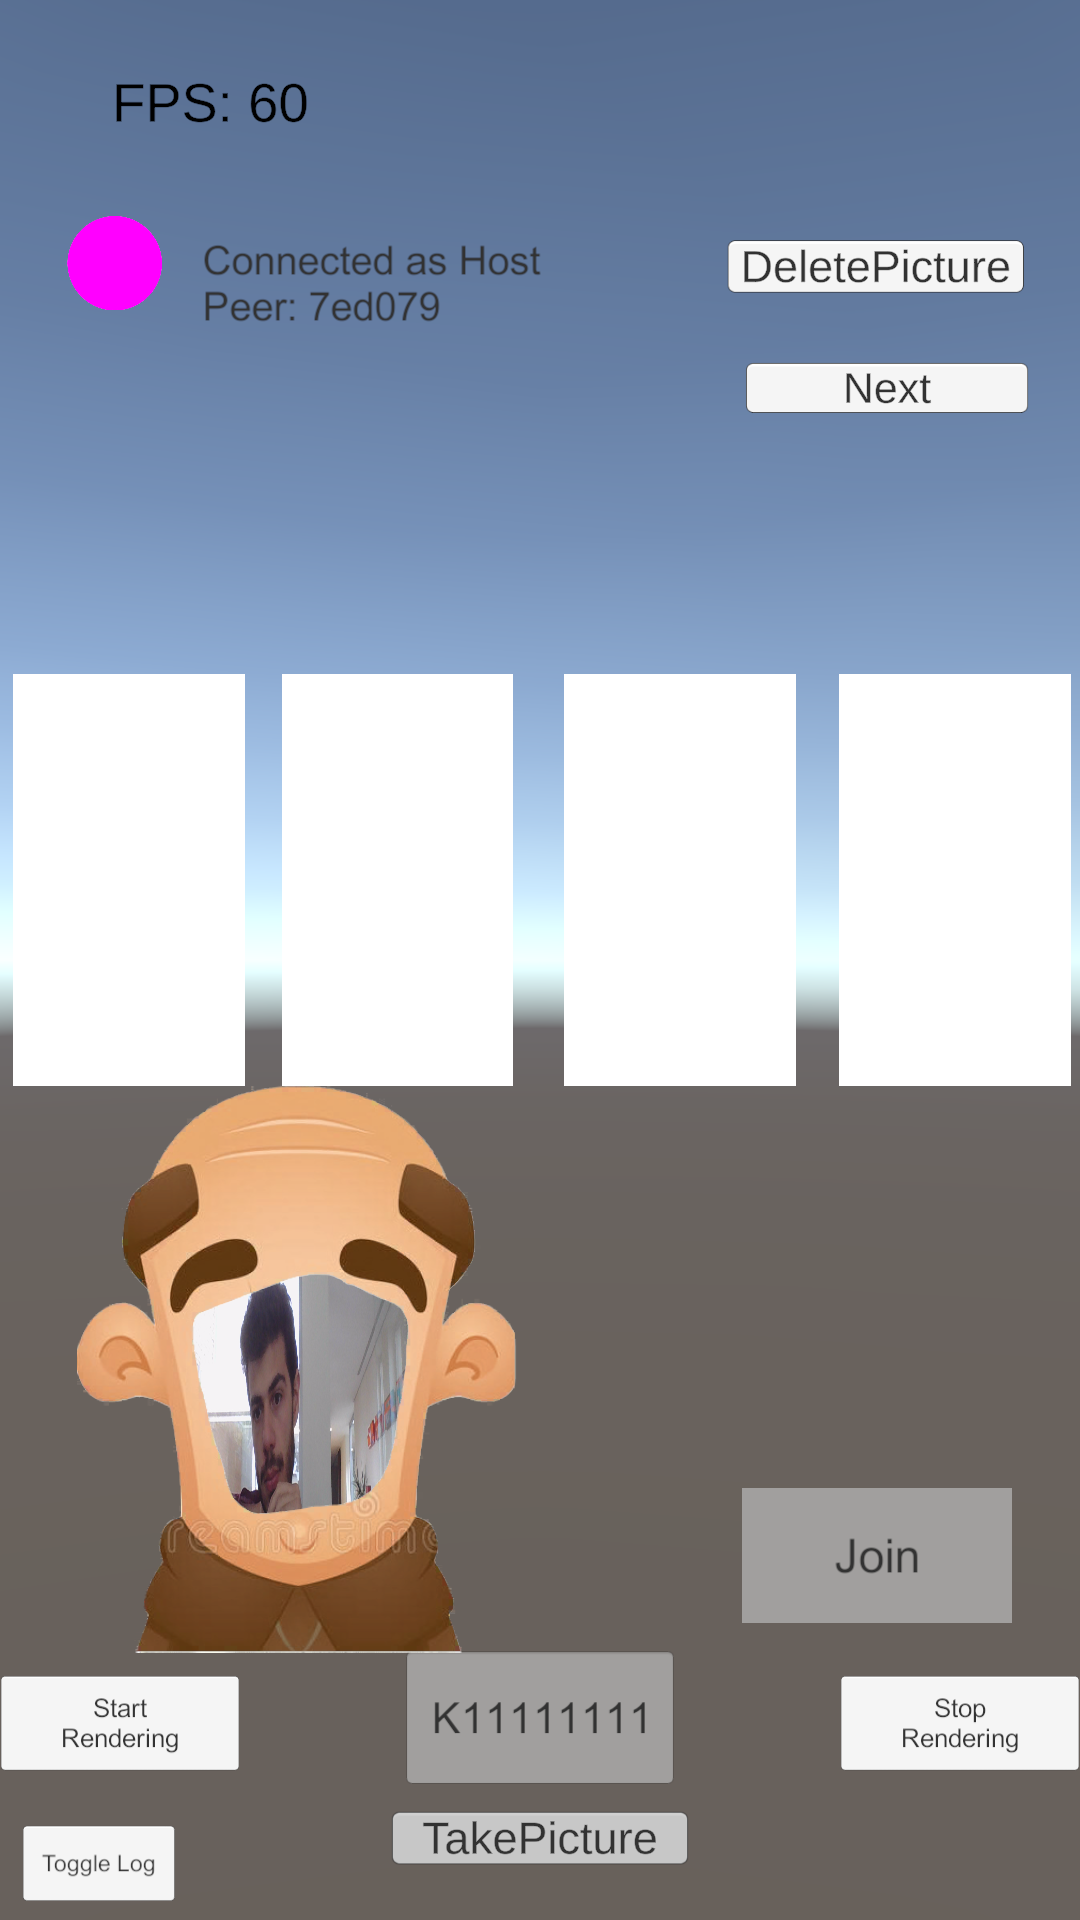
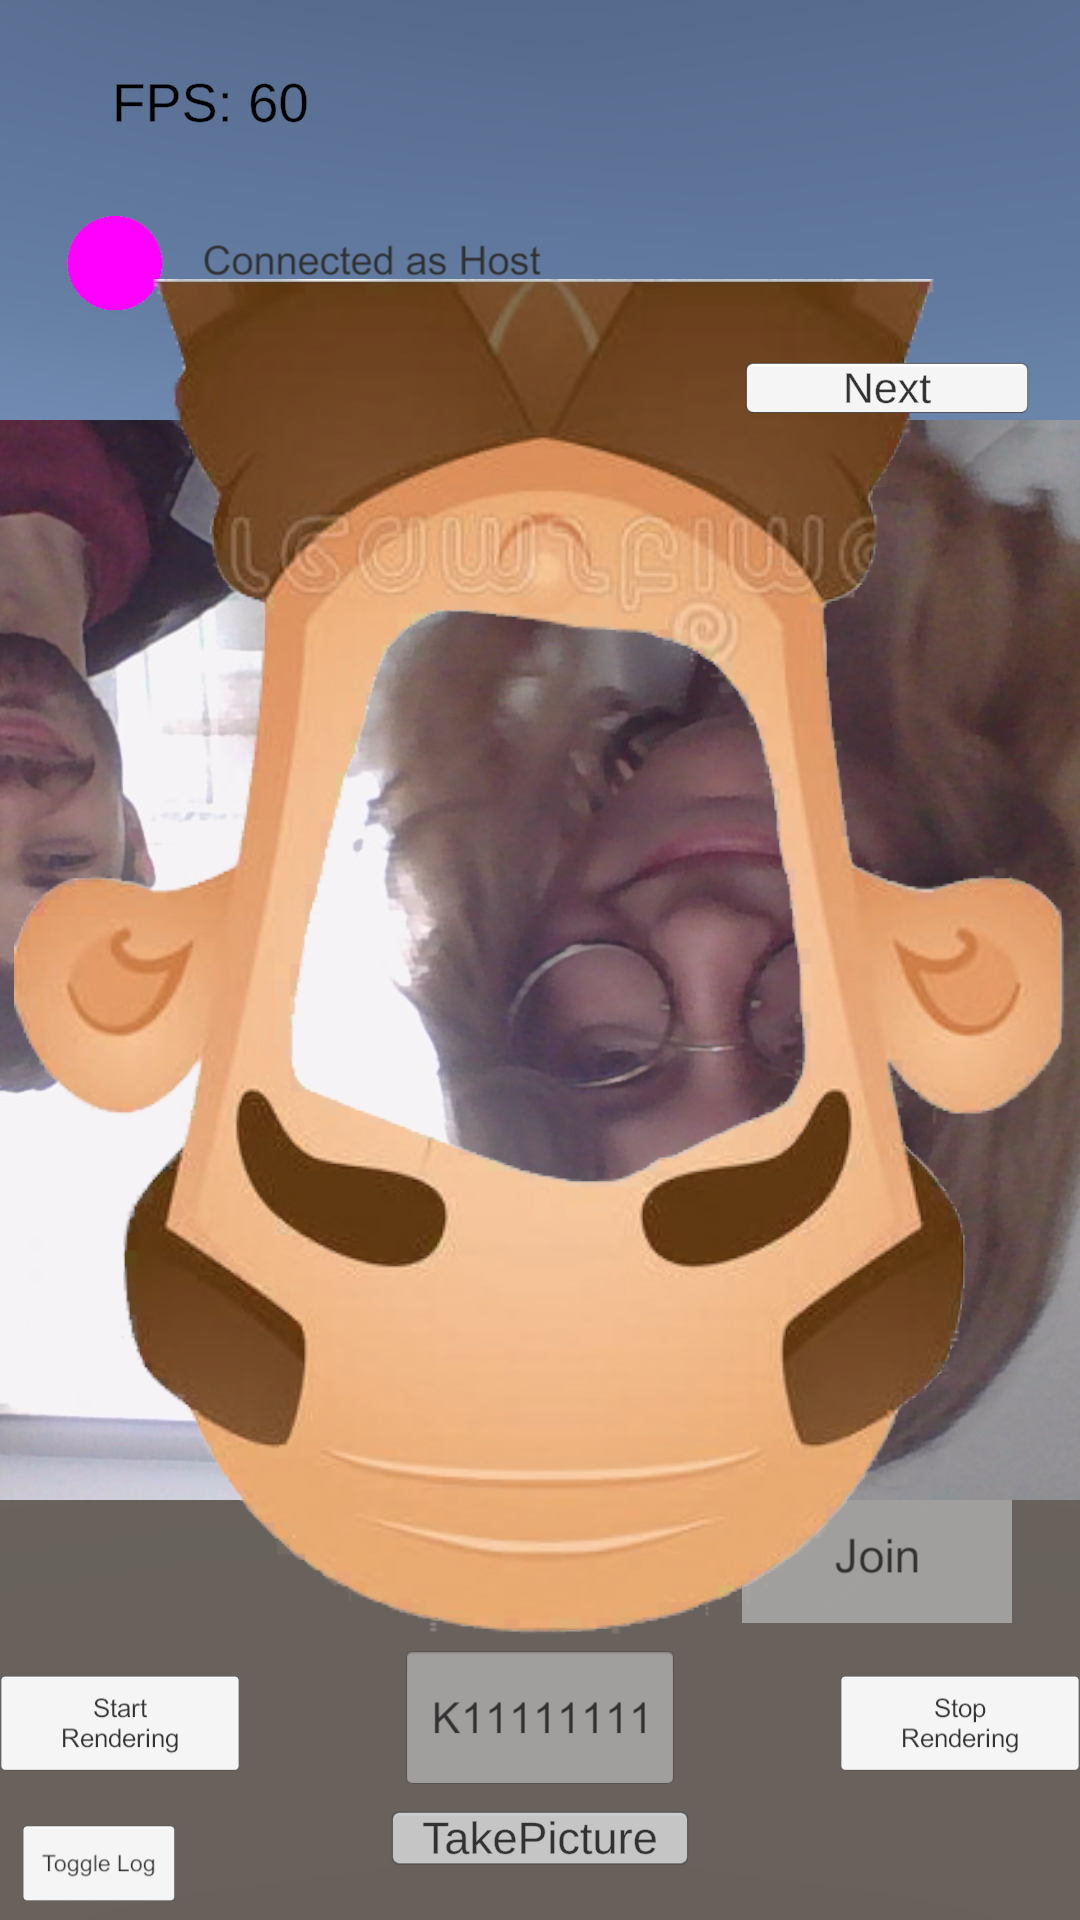
fin de journée

diff --git a/Assets/Scripts/Device/FrontCam.cs b/Assets/Scripts/Device/FrontCam.cs
@@ -20,11 +20,13 @@ public class FrontCam : MonoBehaviour
 
 
     string[] files = null;
-    public GameObject picture;
+    public GameObject pictures;
     public Button buttonTakePicture;
     public Button buttonDeletePicture;
 
+    [Space]
 
+    public Image[] FilterImages;
 
     private void Start()
     {
@@ -33,7 +35,13 @@ public class FrontCam : MonoBehaviour
         imageFrontCam.gameObject.SetActive(true);
         buttonTakePicture.gameObject.SetActive(true);
         buttonDeletePicture.gameObject.SetActive(false);
-        picture.gameObject.SetActive(false);
+        pictures.gameObject.SetActive(false);
+
+        foreach (Image image in FilterImages)
+        {
+            image.gameObject.SetActive(false);
+        }
+        FilterImages[(int)PersistentKeyValueTree.instance.YourRole -1 ].gameObject.SetActive(true);
 
     }
 
@@ -121,7 +129,7 @@ public class FrontCam : MonoBehaviour
         imageFrontCam.gameObject.SetActive(false);
         buttonTakePicture.gameObject.SetActive(false);
         buttonDeletePicture.gameObject.SetActive(true);
-        picture.gameObject.SetActive(true);
+        pictures.gameObject.SetActive(true);
         
         Debug.Log("done");
 
@@ -132,7 +140,7 @@ public class FrontCam : MonoBehaviour
         imageFrontCam.gameObject.SetActive(true);
         buttonTakePicture.gameObject.SetActive(true);
         buttonDeletePicture.gameObject.SetActive(false);
-        picture.gameObject.SetActive(false);
+        pictures.gameObject.SetActive(false);
         PersistentKeyValueImage.instance.doOnce = true;
     }
     
@@ -178,5 +186,9 @@ public class FrontCam : MonoBehaviour
         imageFrontCam.rectTransform.localEulerAngles = new Vector3(0, 0, orient);
     }
 
+    public void OnDisable()
+    {
+        frontCam.Stop();
+    }
 
 }
